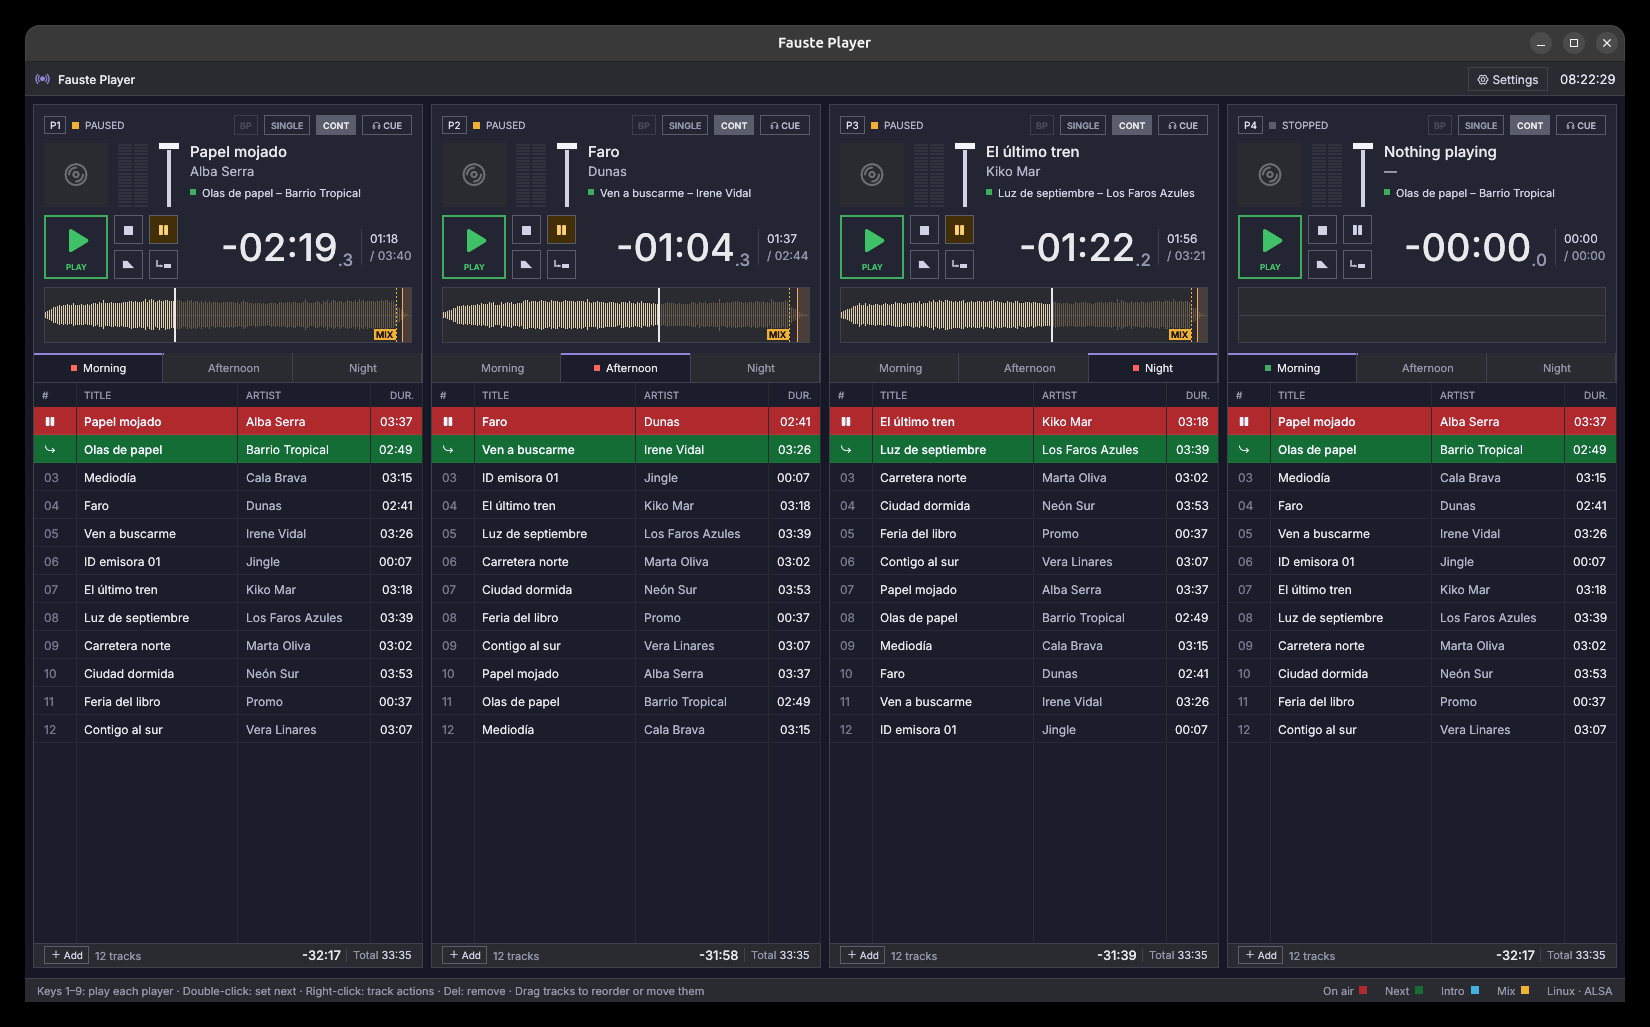
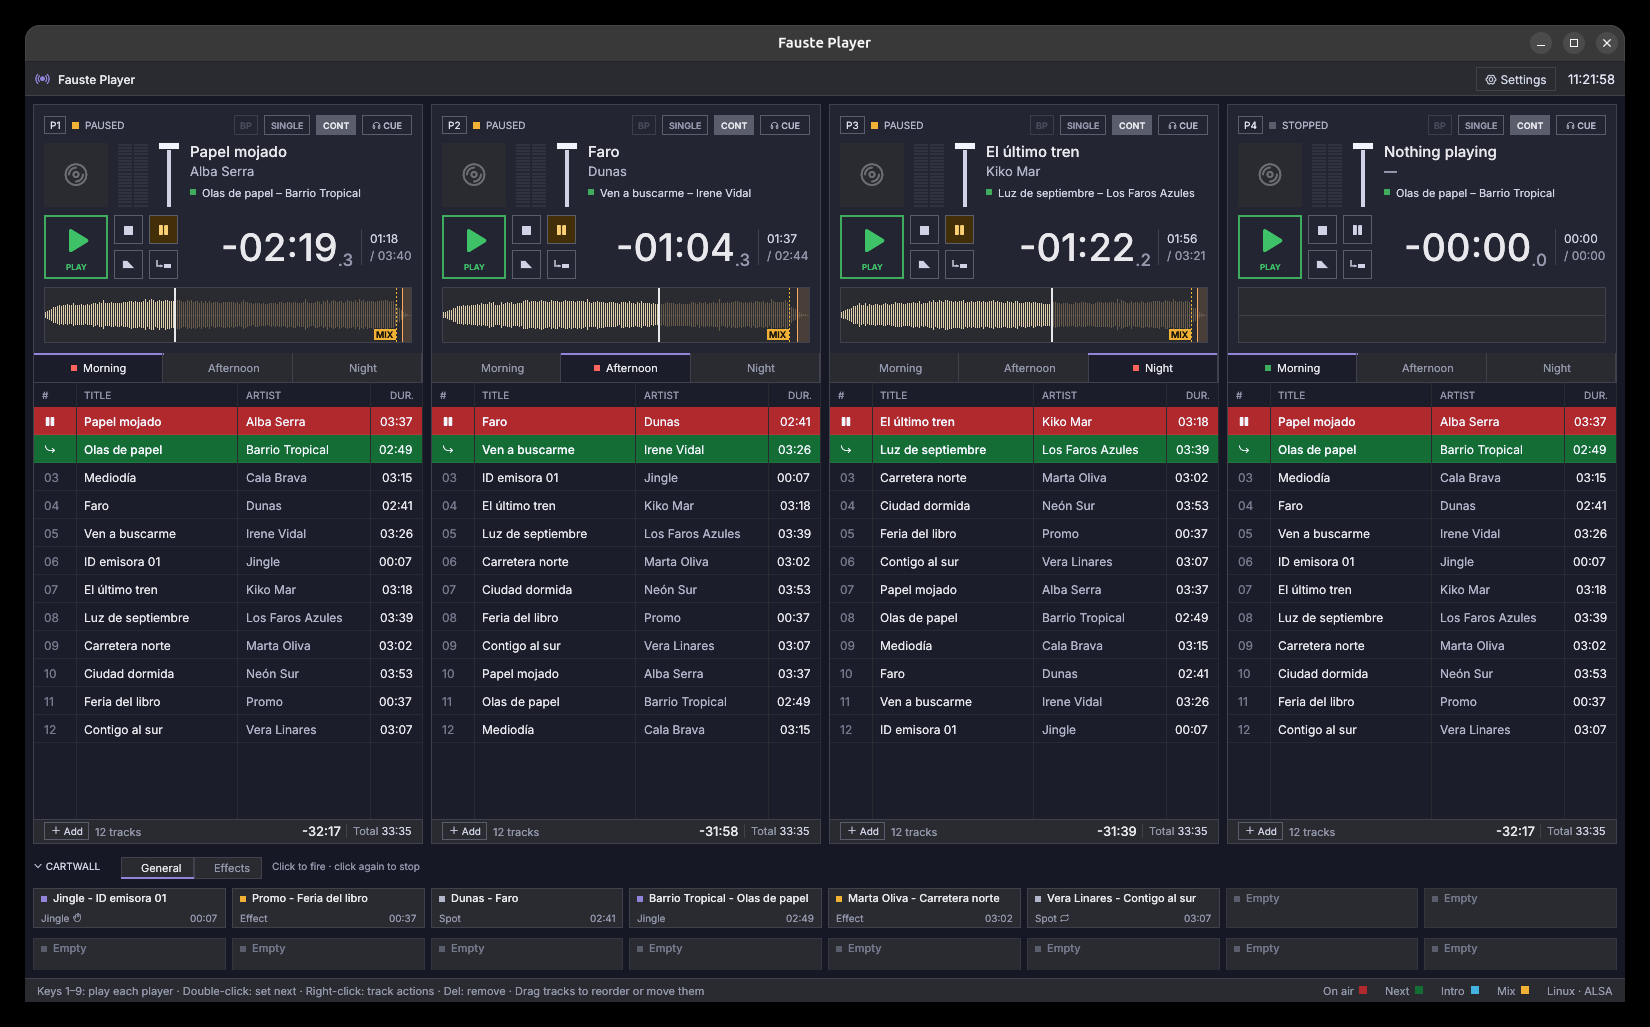
docs: document the cartwall, shortcuts, marker editing and playlist files
Adds the cartwall user guide, updates the keyboard, settings, markers,
playlists and technical UI pages, marks Phase 2 done in the roadmap, and
refreshes the screenshot; the demo session now fills a cart page.

diff --git a/crates/fp-app/examples/demo_session.rs b/crates/fp-app/examples/demo_session.rs
@@ -9,7 +9,7 @@ use std::process::ExitCode;
 
 use fp_app::bootstrap;
 use fp_app::ui::files::audio_paths;
-use fp_model::{AppState, Command, Config, Limits, PlaylistId};
+use fp_model::{AppState, CartEdit, CartKind, Command, Config, Limits, PlaylistId};
 use fp_store::Store;
 
 fn main() -> ExitCode {
@@ -70,10 +70,50 @@ fn main() -> ExitCode {
             let _ = fp_model::apply(&mut state, Command::Play(*player));
         }
     }
+    // Some carts on the first page, from the shortest files.
+    let mut short = files.clone();
+    short.sort_by_key(|p| std::fs::metadata(p).map(|m| m.len()).unwrap_or(u64::MAX));
+    let page = state.cartwall.pages[0].id;
+    let _ = fp_model::apply(
+        &mut state,
+        Command::RenameCartPage {
+            page,
+            name: "General".into(),
+        },
+    );
+    let kinds = [CartKind::Jingle, CartKind::Effect, CartKind::Spot];
+    for (index, path) in short.iter().take(6).enumerate() {
+        let _ = fp_model::apply(
+            &mut state,
+            Command::AssignCartFile {
+                page,
+                index,
+                path: path.clone(),
+            },
+        );
+        let name = path
+            .file_stem()
+            .map(|s| s.to_string_lossy().into_owned())
+            .unwrap_or_default();
+        let edit = CartEdit {
+            name,
+            kind: kinds[index % kinds.len()],
+            looped: index == 5,
+            exclusive: index == 0,
+        };
+        let _ = fp_model::apply(&mut state, Command::SetCart { page, index, edit });
+    }
+    let _ = fp_model::apply(
+        &mut state,
+        Command::CreateCartPage {
+            name: "Effects".into(),
+        },
+    );
     let store = Store::new(paths, Limits::default());
     let saved = store
         .save_config(&state)
         .and_then(|()| store.save_playlists(&state))
+        .and_then(|()| store.save_carts(&state))
         .and_then(|()| store.save_session(&state, |p| 40.0 + f64::from(p.0 as u32 % 7) * 19.0));
     match saved {
         Ok(()) => ExitCode::SUCCESS,

diff --git a/docs/technical/ui.md b/docs/technical/ui.md
@@ -13,7 +13,10 @@
 | `ui/app.rs` | `AppUi`: the main screen, keyboard, notices, OS drops, file-dialog results |
 | `ui/player.rs` | One player column: header, info row, transport, waveform, tabs, footer |
 | `ui/table.rs` | The track table (virtualised rows, drag and drop, context menu, column widths) |
-| `ui/settings.rs` | The Settings modal |
+| `ui/settings.rs` | The Settings modal (outputs, players and language, analysis, playlists) |
+| `ui/settings/carts.rs`, `ui/settings/keys.rs` | Settings → Cartwall (pages, grid, cart editor, import and export) and → Keyboard shortcuts (capture, conflicts) |
+| `ui/cartwall.rs`, `ui/cart_view.rs` | The cartwall strip, and its pure view model (status, countdown, progress) |
+| `ui/playlist_files.rs` | Playlist import and export on helper threads (`FileOutcome`) |
 | `ui/shell.rs` | Panic isolation around each frame |
 | `ui/view.rs`, `ui/format.rs` | Pure view model: what to show, how to format it (unit-tested) |
 | `ui/widgets.rs`, `ui/icons.rs`, `ui/theme.rs` | Painted widgets (tiles, VU, fader, waveform), drawn icons, the Nocturne theme |
@@ -27,8 +30,10 @@ Each frame, `AppUi::ui`:
 1. loads `ctl.model()` (an `Arc<AppState>`) and `ctl.telemetry()`;
 2. drains refusals (shown as a transient notice) and results of helper threads
    (file dialogs, dropped folders, device scans);
-3. handles the keyboard, unless a text field has focus: only first presses
-   count, and repeats are ignored;
+3. handles the keyboard, unless a text field has focus. Bindings come from
+   `config.shortcuts` (the key name and exact modifiers must match). Only
+   first presses count, and repeats are ignored. Player and cart positions
+   are resolved against the players and the cart page shown;
 4. draws the screen and sends `Command`s through `ctl.send`;
 5. requests a repaint: continuously while anything plays, fades or cues,
    otherwise every 100 ms for the clock.
@@ -40,6 +45,22 @@ from the snapshot.
 `Controller` is implemented by `ConductorHandle`. The tests use a fake that
 applies commands with `fp_model::apply` and records them and their refusals,
 so the UI is tested end to end without audio.
+
+## Language switching
+
+When `config.ui.language` changes (Settings → Players → Language), `AppUi`
+rebuilds its `I18n` on the next frame. The first frame only records the
+language the interface was built with.
+
+## Marker editing
+
+`player.rs::edit_markers` handles marker editing on the waveform:
+
+- the context menu remembers the time where it was opened
+  (`ViewState::wave_menu`) and sends `SetMarker` or `ResetMarkers`;
+- with Alt held, handles are drawn on the markers. A drag picks the marker
+  nearest to the press origin (`ViewState::marker_drag`) and sends a single
+  `SetMarker` on release. A waveform click never seeks while Alt is held.
 
 ## Nothing blocks the UI thread
 

diff --git a/docs/user/cartwall.md b/docs/user/cartwall.md
@@ -1,0 +1,62 @@
+# Cartwall
+
+The cartwall is the strip of buttons under the players. Each button, a
+**cart**, plays one sound instantly: jingles, effects, spots. Carts play on
+their own outputs, independently of the players.
+
+## Using it
+
+- **Click a cart** to fire it. **Click it again** to stop it.
+- While a cart plays, its border turns red, a red bar shrinks as it plays,
+  and its time counts down.
+- Carts **overlap** by default: firing a second one does not stop the first.
+  A cart set to **Stop other carts when fired** stops every other cart on air
+  first, on any page.
+- A cart set to **Loop** starts again from its cue-in when it reaches its end,
+  without a gap, until you stop it.
+- **Right-click** a cart for more options:
+
+| Item | Action |
+|---|---|
+| Pre-listen on CUE | Play it on the cartwall's CUE output |
+| Stop | Stop it |
+| Edit… | Open it in Settings |
+
+- **Pages:** the tabs next to **CARTWALL** switch pages. A red dot shows
+  that a cart on that page is playing.
+- Click **CARTWALL** to collapse the strip or expand it again.
+
+| Button look | Meaning |
+|---|---|
+| Violet dot | Jingle |
+| Amber dot | Effect |
+| Grey dot | Spot (commercial) |
+| ↻ after the type | Loops |
+| ✋ after the type | Stops the other carts when fired |
+| Warning sign | The file is missing or cannot be decoded |
+| "Empty", dimmed | No file assigned |
+
+Carts use the same markers as tracks. They start at their cue-in and end at
+their cue-out, which you can edit on a player's waveform when the file is
+loaded there.
+
+## Keyboard
+
+By default **F1**…**F12** fire carts 1–12 of the page shown, and
+**Ctrl+Space** stops every cart. See [Keyboard](keyboard.md) to change them.
+
+## Setting up carts
+
+Go to **Settings → Cartwall**:
+
+- **Pages:** create, rename, delete (the last page cannot be deleted), and set
+  the grid size (rows × columns). A smaller grid is refused if it would drop
+  carts that have a file.
+- **Import… / Export…** save a page to a `.cartpage.json` file and load it
+  back, for example to share it between studios. Relative file paths are
+  resolved against the file's folder.
+- **Carts:** click a cart in the grid, then set its name, file (**Choose…**
+  or **Clear**), type, **Loop** and **Stop other carts when fired**.
+
+The cartwall's own Main and Cue outputs are in **Settings → Audio outputs**
+(the **Cartwall** row).

diff --git a/README.md b/README.md
@@ -39,6 +39,14 @@ audio engine that the interface can never block.
   point and the outro. It also reads tags and cover art, and draws the
   waveform. Markers set by hand are never overwritten.
 - **CUE pre-listen** on a separate device or channel pair.
+- **Cartwall:** pages of instant carts (jingles, effects, spots), each with a
+  configurable grid. Carts overlap by default; they can loop gaplessly or stop
+  the others. They have their own Main and Cue outputs. Pages can be
+  imported and exported.
+- **Marker editing on the waveform:** cue in and out, intro, outro and MIX,
+  set from a menu or with Alt-drag. An `INTRO` tag can also set the intro.
+- **Remappable keyboard shortcuts** for players and carts.
+- **M3U / M3U8 / PLS import and M3U8 export.**
 - **Routing per player:** Main and Cue outputs on any device and channel
   pair. Multichannel interfaces carry several players at once.
 - **Resilient:**
@@ -52,7 +60,8 @@ audio engine that the interface can never block.
   thousands of entries, with drag and drop within and across players and
   onto tabs, drops from the file manager, a context menu and keyboard
   shortcuts.
-- **English and Spanish** interface (Fluent), following the OS language.
+- **English and Spanish** interface (Fluent). It follows the OS language or
+  the language chosen in Settings.
 
 ## Platform support
 
@@ -234,8 +243,8 @@ See [Release process](docs/technical/release-process.md).
 | Phase | Content | Status |
 |---|---|---|
 | 1. Usable core | Players, mixing, CUE, analysis, persistence, main screen, Settings subset, CI and releases | done |
-| 2. Cartwall and full Settings | Cart pages, remappable shortcuts, language selector, M3U/M3U8/PLS import and export, manual marker editing | next |
-| 3. Native backends | PipeWire, PulseAudio, JACK, WASAPI exclusive, ASIO, DirectSound, Core Audio hog mode | planned |
+| 2. Cartwall and full Settings | Cart pages, remappable shortcuts, language selector, M3U/M3U8/PLS import and export, manual marker editing | done |
+| 3. Native backends | PipeWire, PulseAudio, JACK, WASAPI exclusive, ASIO, DirectSound, Core Audio hog mode | next |
 | 4. Bit-perfect | Exclusive output at the file's rate and format | planned |
 | 5. Packaging | deb, rpm, Flatpak, AppImage, signed MSI, signed and notarised dmg | planned |
 

diff --git a/docs/user/settings.md b/docs/user/settings.md
@@ -14,6 +14,11 @@ Changes in this section apply **the next time the application starts**.
 | Buffer size | Frames per audio block; the resulting latency is shown below it |
 | Outputs per player | For each player, a **Main** (on-air) device and a **Cue** (pre-listen) device, each with a channel pair. Multichannel interfaces can carry several players on different pairs. |
 | Test Main / Test Cue | Plays a short tone (1 kHz on Main, 440 Hz on Cue, 1.5 s, −18 dBFS) on the chosen output, so you can check the wiring before going on air |
+| Cartwall | The cartwall's Main and Cue outputs. Main defaults to the system output. Without a Cue there is no cart pre-listen. |
+
+A Cue output never falls back to the output Main uses. A Cue that names a
+device on an audio system this computer does not have, or the same output as
+Main, means "no cue".
 
 If a device disappears while playing, the players keep their timelines, and
 the device is reopened when it comes back (see
@@ -23,6 +28,7 @@ the device is reopened when it comes back (see
 
 | Setting | Default | Meaning |
 |---|---|---|
+| Language | System | Interface language |
 | Number of players | 4 | Columns on the main screen (a player on air cannot be removed) |
 | Default mode | CONT | The mode players start in |
 | Fade time | 1000 ms | Used by Play while on air and by Fade stop |
@@ -40,5 +46,16 @@ manual markers are kept.
 - **Music folder:** where the file dialogs start.
 - **New playlist**, **rename** (edit the name and press Enter; Esc cancels)
   and **delete** (trash icon).
+- **Import M3U / PLS…** creates a new playlist from a playlist file. **M3U**
+  on each row exports it as M3U8. See [Playlists](playlists.md).
 
-The interface language follows the operating system (English or Spanish).
+**Language:** System, English or Español. The interface switches at once.
+
+## Cartwall
+
+Pages, grid size, the cart editor, and cart page import and export. See
+[Cartwall](cartwall.md).
+
+## Keyboard shortcuts
+
+See [Keyboard](keyboard.md).

diff --git a/docs/user/markers-and-mixing.md b/docs/user/markers-and-mixing.md
@@ -8,9 +8,30 @@ Every track has up to five **markers**, in seconds:
 | Cue out | Where the track ends | Automatic: the end of the last sound above the silence threshold |
 | MIX (segue start) | Where the next track starts in continuous mode | Automatic (see below) |
 | Outro start | Where the ending of the track begins | Automatic (see below) |
-| Intro end | End of the spoken-over introduction | Manual only (marker editing arrives in a later version) |
+| Intro end | End of the spoken-over introduction | By hand, or from an `INTRO` tag in the file |
 
 Markers set by hand always win: a new analysis never replaces them.
+
+## Editing markers
+
+On a player's waveform:
+
+- **Right-click** where you want a marker and choose **Set cue in here**,
+  **Set intro end here**, **Set outro start here**, **Set MIX point here** or
+  **Set cue out here**. **Reset markers to automatic** removes the markers you
+  placed, and the track is analysed again.
+- **Hold Alt** (Option on macOS): handles appear on the markers. Drag one to
+  move it; the time is shown while you drag. A drag never moves the playhead.
+
+Cue-in must stay before cue-out. The other markers are kept between them.
+Changes to the track on air apply to its next transition at once.
+
+## The INTRO tag
+
+A file can carry its intro time in an `INTRO` tag, as seconds (`12.5`) or
+`m:ss`. It can be an ID3v2 user text frame (MP3, WAV, AIFF), a Vorbis or FLAC
+comment, an APE item or an MP4 freeform atom. It is read during analysis. A
+manual intro end still wins.
 
 ## How the automatic markers are found
 

diff --git a/docs/user/keyboard.md b/docs/user/keyboard.md
@@ -1,12 +1,29 @@
 # Keyboard
 
-| Key | Action |
+| Default key | Action |
 |---|---|
 | `1` … `9` | Play on players 1–9 (same as their Play button) |
+| `F1` … `F12` | Fire carts 1–12 of the cart page shown |
+| `Ctrl+Space` | Stop every cart |
 | `Delete` / `Backspace` | Remove the selected track from the playlist shown (not while it is on air) |
 | `Esc` | Close menus and Settings; clear the selection |
 
 - Holding a key does not repeat it: a held `1` presses Play once.
 - Shortcuts are ignored while you type in a text field, such as a playlist
   name.
-- Remappable shortcuts arrive in a later version.
+
+## Changing shortcuts
+
+In **Settings → Keyboard shortcuts**, click an action and press the key (with
+Ctrl, Alt, Shift or Cmd if you like). If another action already uses that
+key, its name is shown. Choose **Assign** to move the key, or **Cancel**.
+**Unbind** removes a shortcut and **Reset to defaults** restores the table
+above. Available actions, for every player and cart:
+
+- play, pause, stop, fade stop and CUE on a player;
+- fire a cart of the page shown;
+- stop all carts;
+- show or hide the cartwall;
+- next or previous cart page.
+
+`Delete`, `Backspace` and `Esc` cannot be changed.

diff --git a/docs/user/README.md b/docs/user/README.md
@@ -12,12 +12,13 @@ by themselves.
 |---|---|
 | [Getting started](getting-started.md) | Installing, first start, adding music, playing |
 | [Players](players.md) | The player column: transport, modes, countdown, waveform, CUE |
-| [Playlists](playlists.md) | Tabs, the track table, drag and drop, the context menu |
+| [Playlists](playlists.md) | Tabs, the track table, drag and drop, the context menu, M3U/PLS files |
+| [Cartwall](cartwall.md) | Instant carts: firing, pages, loops, exclusive carts, setup |
 | [Markers and mixing](markers-and-mixing.md) | Cue in/out, the MIX point, intro and outro, automatic analysis |
 | [Settings](settings.md) | Audio outputs, players, analysis, playlists |
 | [Keyboard](keyboard.md) | Shortcuts |
 | [Data and backups](data-and-backups.md) | Where files live, autosave, crash recovery, portable mode |
 | [Troubleshooting](troubleshooting.md) | No sound, device lost, files marked unavailable, logs |
 
-The interface is available in English and Spanish and follows the language of
-the operating system.
+The interface is available in English and Spanish. It follows the language of
+the operating system unless you choose one in Settings.

diff --git a/docs/user/playlists.md b/docs/user/playlists.md
@@ -66,3 +66,15 @@ Row colours:
 **+ Add** opens a file dialog, starting in the music folder set in
 Settings. The footer also shows the number of tracks, the time left in the
 playlist and its total length.
+
+## Playlist files
+
+- **Import:** Settings → Playlists → **Import M3U / PLS…**, or drop an
+  `.m3u`, `.m3u8` or `.pls` file on the window. It becomes a new playlist
+  named after the file.
+  - Relative paths are resolved against the playlist file's folder.
+  - `file://` addresses are understood.
+  - Files that cannot be found are still added, marked unavailable.
+  - Internet streams are skipped; a message says how many.
+- **Export:** the **M3U** button on each playlist in Settings saves it as an
+  M3U8 file with titles, lengths and full paths.
